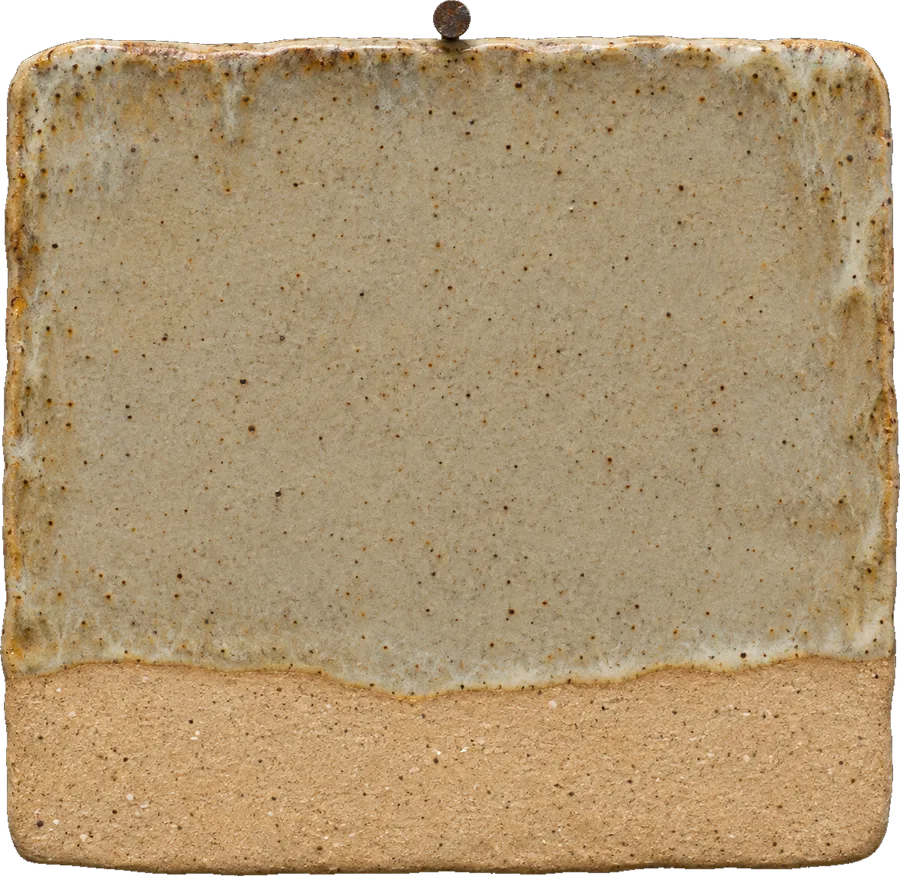
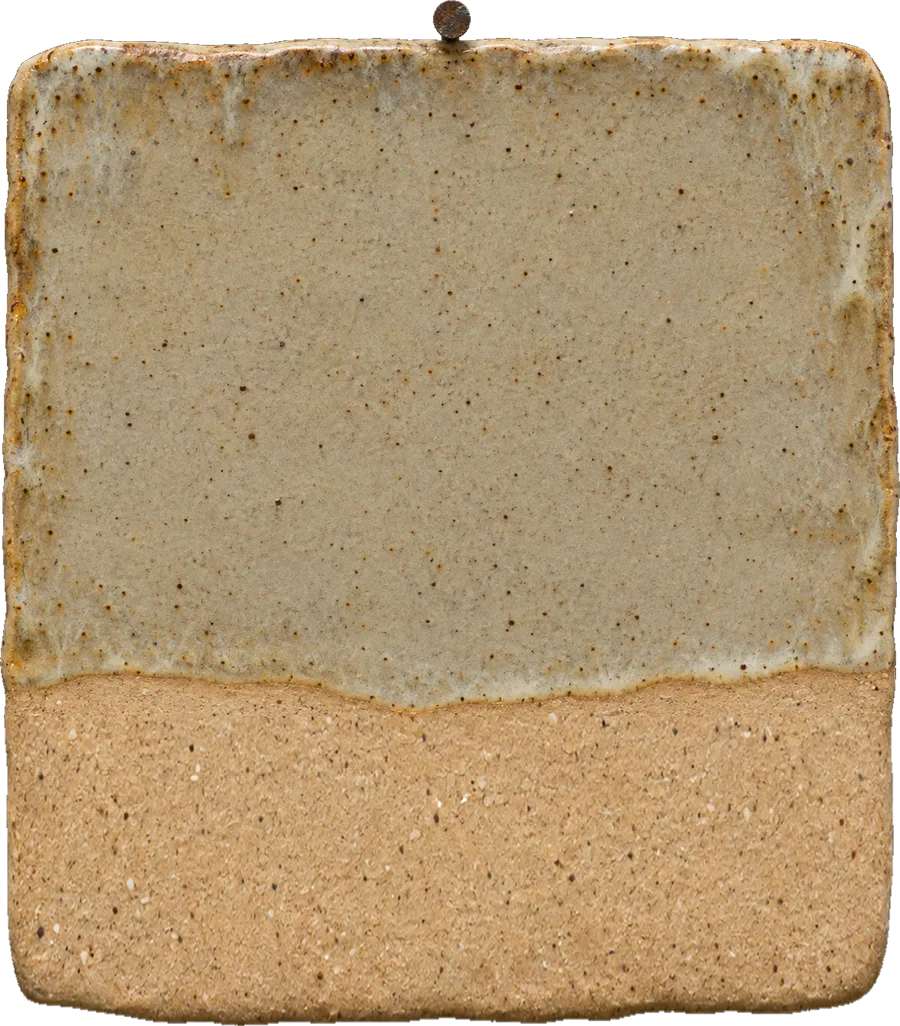
Tablillas normalizadas: la franja de barro siempre mide lo mismo

diff --git a/src/components/store-view.module.css b/src/components/store-view.module.css
@@ -148,7 +148,7 @@
   left: 9.5%;
   right: 9.5%;
   top: 10.5%;
-  bottom: 35.5%;
+  bottom: 34.5%;
   overflow: hidden;
   border-radius: 4px;
   background: #e9e4dc;
@@ -176,10 +176,10 @@
   position: absolute;
   left: 6.5%;
   right: 6%;
-  bottom: 4%;
-  height: 28%;
+  bottom: 4.5%;
+  height: 25.5%;
   display: flex;
-  align-items: center;
+  align-items: flex-end;
   gap: 4.5cqw;
   color: var(--clay-ink);
 }
@@ -188,7 +188,7 @@
   flex: none;
   min-width: 2ch;
   text-align: center;
-  font-size: clamp(2.6rem, 15cqw, 4.4rem);
+  font-size: clamp(2.4rem, 13.5cqw, 4.2rem);
   font-weight: 800;
   line-height: 1;
   letter-spacing: -0.03em;
@@ -200,7 +200,7 @@
 .groove {
   flex: none;
   align-self: stretch;
-  margin: 12% 0;
+  margin: 6% 0 2%;
   width: 3px;
   border-radius: 2px;
   background: rgb(74 44 23 / 0.45);
@@ -218,9 +218,9 @@
   -webkit-box-orient: vertical;
   -webkit-line-clamp: 2;
   overflow: hidden;
-  font-size: clamp(1.2rem, 6.4cqw, 1.6rem);
+  font-size: clamp(1.12rem, 6.2cqw, 1.6rem);
   font-weight: 700;
-  line-height: 1.12;
+  line-height: 1.06;
   text-wrap: balance;
 }
 
